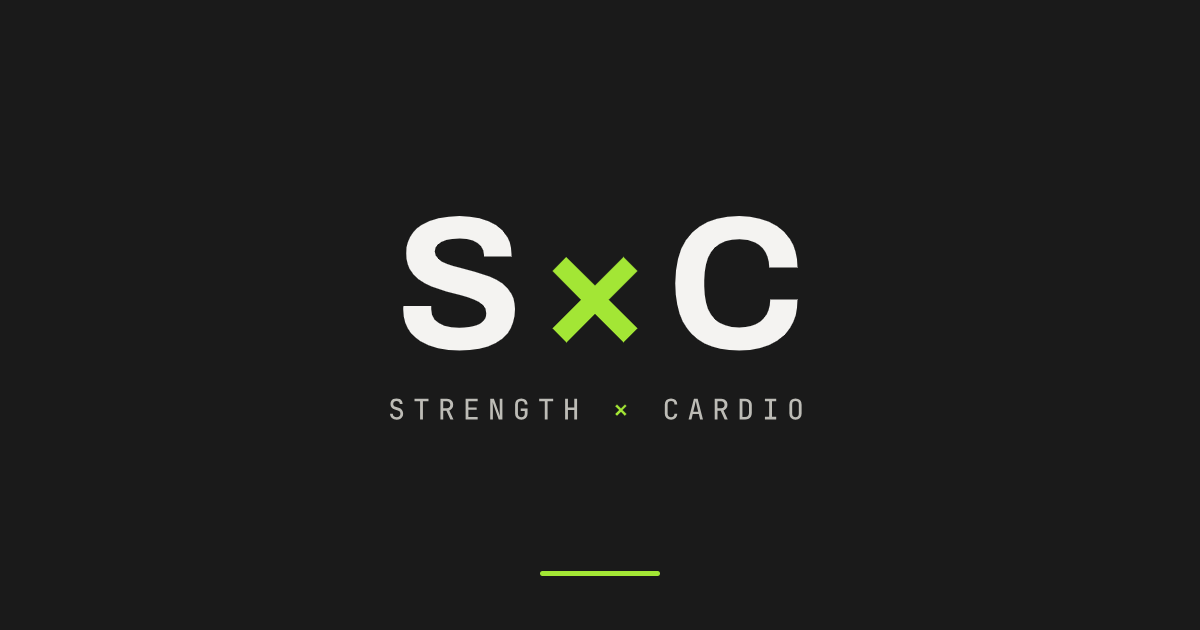
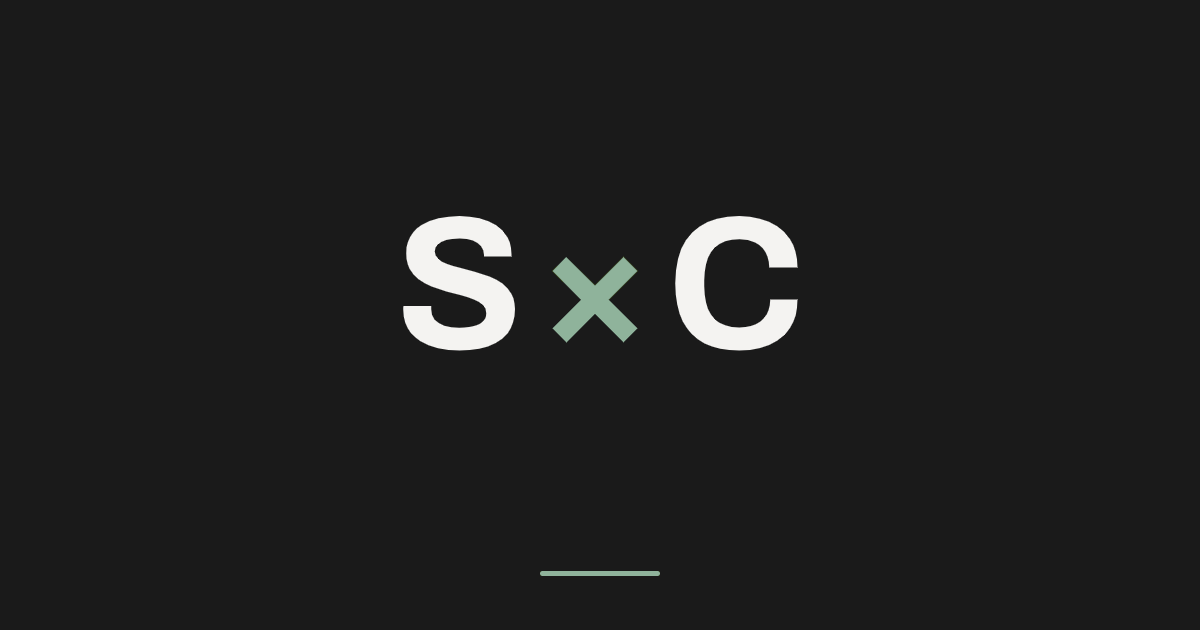
Rename app to S×C and retire lime brand for sage
Drop the "Strength × Cardio" descriptor everywhere and recolor the stale
lime (#A3E635) brand to the app's sage accent (#8FB39B) on the near-black
(#0F1310) theme background.

- layout.tsx / manifest: app name -> "S×C" (name, short_name, appleWebApp
  title, OpenGraph, Twitter); theme_color #8fb39b, background_color #0f1310.
- offline.html: "Hybrid" -> "S×C", repalette to the sage theme tokens.
- Brand SVGs: lime × -> sage; strip the "STRENGTH × CARDIO" tagline group
  from all four lockups (now wordmark-only) and crop their viewBox.
- Regenerate baked PNGs from the sage wordmark: app icons, apple-touch,
  iOS splash set, favicon (PNG-in-ICO), and recolor/erase the OG card.
- generate-icons/splash: source the wordmark, near-black #0f1310 tile.
- ProgramPicker: Hybrid tagline "strength × cardio" -> "strength + cardio".
- InstallPrompt / MCP authorize + connect copy: "SxC" -> "S×C".
- Update brand-identity.md + knowledge index to the sage, descriptor-free system.
- pwa-install-desktop e2e: expect manifest name/short_name "S×C".

diff --git a/apps/web/public/offline.html b/apps/web/public/offline.html
@@ -3,7 +3,7 @@
   <head>
     <meta charset="utf-8" />
     <meta name="viewport" content="width=device-width, initial-scale=1, viewport-fit=cover" />
-    <title>Offline · Hybrid</title>
+    <title>Offline · S×C</title>
     <style>
       :root {
         color-scheme: dark;
@@ -17,8 +17,8 @@
         height: 100%;
       }
       body {
-        background: #1a1a1a;
-        color: #f4f3f1;
+        background: #0f1310;
+        color: #e6ebe2;
         font-family: system-ui, -apple-system, "Segoe UI", sans-serif;
         display: flex;
         flex-direction: column;
@@ -36,7 +36,7 @@
         line-height: 1;
       }
       .mark .x {
-        color: #a3e635;
+        color: #8fb39b;
       }
       h1 {
         font-size: 20px;
@@ -48,14 +48,14 @@
         max-width: 32ch;
         font-size: 14px;
         line-height: 1.6;
-        color: #bdbcb6;
+        color: #afb8a8;
       }
       button {
         margin-top: 4px;
         appearance: none;
-        border: 1px solid #3a3a38;
-        background: #2b2b29;
-        color: #f4f3f1;
+        border: 1px solid #384230;
+        background: #141813;
+        color: #e6ebe2;
         font: inherit;
         font-size: 14px;
         font-weight: 600;
@@ -64,7 +64,7 @@
         cursor: pointer;
       }
       button:active {
-        background: #343431;
+        background: #1f251d;
       }
     </style>
   </head>
@@ -72,7 +72,7 @@
     <div class="mark" aria-hidden="true">S<span class="x">×</span>C</div>
     <h1>You're offline</h1>
     <p>
-      Hybrid can't reach the network right now. Logged sets are saved on this
+      S×C can't reach the network right now. Logged sets are saved on this
       device and will sync once you're back online.
     </p>
     <button type="button" onclick="location.reload()">Try again</button>

diff --git a/apps/web/src/components/shell/InstallPrompt.tsx b/apps/web/src/components/shell/InstallPrompt.tsx
@@ -138,7 +138,7 @@ export function InstallPrompt() {
   return (
     <div
       role="region"
-      aria-label="Install SxC"
+      aria-label="Install S×C"
       style={{
         position: "fixed",
         left: 12,
@@ -159,7 +159,7 @@ export function InstallPrompt() {
       <div style={{ display: "flex", alignItems: "flex-start", gap: 10 }}>
         <div style={{ fontSize: 22, lineHeight: 1 }} aria-hidden="true">⚡</div>
         <div style={{ display: "grid", gap: 4, flex: 1 }}>
-          <div style={{ fontSize: 14, fontWeight: 600 }}>Install SxC for faster gym access</div>
+          <div style={{ fontSize: 14, fontWeight: 600 }}>Install S×C for faster gym access</div>
           {iOS ? (
             <div style={{ fontSize: 12, color: "var(--cp-text-muted)", lineHeight: 1.5 }}>
               Tap the <strong>Share</strong> icon in Safari, then{" "}
@@ -167,7 +167,7 @@ export function InstallPrompt() {
             </div>
           ) : (
             <div style={{ fontSize: 12, color: "var(--cp-text-muted)", lineHeight: 1.5 }}>
-              One tap to put SxC on your home screen. Opens full-screen, no browser
+              One tap to put S×C on your home screen. Opens full-screen, no browser
               chrome.
             </div>
           )}

diff --git a/apps/web/src/app/layout.tsx b/apps/web/src/app/layout.tsx
@@ -48,12 +48,12 @@ const sairaStencil = Saira_Stencil_One({
 
 export const metadata: Metadata = {
   metadataBase: new URL("https://getsxc.app"),
-  title: "SxC — Strength × Cardio",
+  title: "S×C",
   description: "Train hybrid. One plan, two modalities, zero collisions.",
   manifest: "/manifest.webmanifest",
   appleWebApp: {
     capable: true,
-    title: "SxC",
+    title: "S×C",
     statusBarStyle: "black-translucent",
   },
   icons: {
@@ -70,8 +70,8 @@ export const metadata: Metadata = {
   },
   openGraph: {
     type: "website",
-    siteName: "SxC — Strength × Cardio",
-    title: "SxC — Strength × Cardio",
+    siteName: "S×C",
+    title: "S×C",
     description: "Train hybrid. One plan, two modalities, zero collisions.",
     url: "https://getsxc.app",
     images: [
@@ -79,13 +79,13 @@ export const metadata: Metadata = {
         url: "/og-image.png",
         width: 1200,
         height: 630,
-        alt: "SxC — Strength × Cardio",
+        alt: "S×C",
       },
     ],
   },
   twitter: {
     card: "summary_large_image",
-    title: "SxC — Strength × Cardio",
+    title: "S×C",
     description: "Train hybrid. One plan, two modalities, zero collisions.",
     images: ["/og-image.png"],
   },

diff --git a/apps/web/src/components/settings/McpConnectSection.tsx b/apps/web/src/components/settings/McpConnectSection.tsx
@@ -37,7 +37,7 @@ const CLIENT_INSTRUCTIONS: Array<{
     steps: [
       "Open Claude → Settings → Connectors.",
       "Click \"Add custom connector\" and paste the MCP server URL above.",
-      "Sign in with your SxC account when Claude redirects you.",
+      "Sign in with your S×C account when Claude redirects you.",
       "Approve the requested scope (read-only access to your training data).",
       "The 8 tools appear in Claude's tool list — start a chat and ask about your training.",
     ],
@@ -60,7 +60,7 @@ const CLIENT_INSTRUCTIONS: Array<{
     steps: [
       "Open Cursor → Settings → MCP.",
       "Add a new MCP server with the URL above (transport: streamable-http).",
-      "Authenticate with your SxC account when prompted.",
+      "Authenticate with your S×C account when prompted.",
       "The catalogue's tools appear in Cursor's tool picker — invoke them from chat.",
     ],
   },

diff --git a/apps/web/src/app/mcp/authorize/route.ts b/apps/web/src/app/mcp/authorize/route.ts
@@ -105,7 +105,7 @@ function renderConsentPage(args: {
 <meta charset="utf-8" />
 <meta name="viewport" content="width=device-width, initial-scale=1" />
 <meta name="robots" content="noindex,nofollow" />
-<title>Authorize ${displayName} — SxC</title>
+<title>Authorize ${displayName} — S×C</title>
 <style>
   :root { color-scheme: light dark; }
   html, body { margin: 0; padding: 0; background: #f4f3f1; color: #1a1a1a;
@@ -140,7 +140,7 @@ function renderConsentPage(args: {
 <main>
   <div class="card">
     <h1>Authorize ${displayName}</h1>
-    <p>${displayName} is requesting read access to your SxC data.</p>
+    <p>${displayName} is requesting read access to your S×C data.</p>
     <dl>
       <dt>Client</dt><dd><span class="mono">${clientId}</span></dd>
       <dt>Scope</dt><dd><span class="mono">${scope}</span></dd>

diff --git a/apps/web/e2e/pwa-install-desktop.spec.ts b/apps/web/e2e/pwa-install-desktop.spec.ts
@@ -67,8 +67,8 @@ test.describe("PWA install metadata", () => {
     expect(res.ok()).toBeTruthy();
     const body = await res.json();
     expect(body.display).toBe("standalone");
-    expect(body.name).toBe("SxC — Strength × Cardio");
-    expect(body.short_name).toBe("SxC");
+    expect(body.name).toBe("S×C");
+    expect(body.short_name).toBe("S×C");
     expect(Array.isArray(body.icons)).toBe(true);
     // Must include at least one maskable icon so Android adaptive icons
     // don't get cropped, plus a 192 and a 512.

diff --git a/apps/web/src/components/program/ProgramPicker.tsx b/apps/web/src/components/program/ProgramPicker.tsx
@@ -44,7 +44,7 @@ const CARD_TAGLINE: Record<string, string> = {
   "wendler-531": "Percentage strength",
   "tactical-barbell": "Operator · Fighter · Zulu",
   "green-protocol": "Strength + endurance",
-  hybrid: "Personalised strength × cardio",
+  hybrid: "Personalised strength + cardio",
   hyrox: "Run + functional stations",
 };
 

diff --git a/docs/design/brand-identity.md b/docs/design/brand-identity.md
@@ -1,14 +1,16 @@
-# Brand identity — SxC
+# Brand identity — S×C
 
-**Status:** locked (2026-06-01). Living document; update if the visual system changes.
+**Status:** updated 2026-06-16 (sage accent + descriptor dropped). Living
+document; update if the visual system changes.
 
-The app's public brand is **SxC** — short for **Strength × Cardio**. Spoken aloud as
-"S-C". The `×` is a multiplier glyph (strength *times* cardio), not the letter "x",
-and is the signature element of the mark.
+The app's public brand is **S×C**. Spoken aloud as "S-C". The `×` is a
+multiplier glyph (strength *times* cardio), not the letter "x", and is the
+signature element of the mark. The app is named **S×C** — there is no
+"Strength × Cardio" descriptor in shipped copy or assets.
 
-> The product/package name remains `Hybrid Training` internally (`@hta/web`,
-> manifest `name`). SxC is the consumer-facing brand and domain. Don't rename
-> packages or routes to match.
+> The product/package name remains `Hybrid Training` internally (`@hta/web`).
+> S×C is the consumer-facing brand and domain. Don't rename packages or routes
+> to match.
 
 ## Domain
 
@@ -17,94 +19,99 @@ WHOIS privacy). `metadataBase` in `apps/web/src/app/layout.tsx` points here.
 
 ## Wordmark
 
-`S×C` — the lockup.
+`S×C` — the full mark.
 
 | Part | Spec |
 |---|---|
 | `S` and `C` | **Archivo Bold (700)**, `letter-spacing: -0.02em` |
-| `×` | same face/weight, **accent green**, ~1px optical side margin |
+| `×` | same face/weight, **sage accent**, ~1px optical side margin |
 
 In the app header the wordmark is rendered as **live text** (not an image) so it
 adapts to the active theme: `S`/`C` use `var(--cp-text)`, `×` uses
 `var(--cp-accent)`. The Archivo face is loaded via `next/font/google` in
 `layout.tsx` and exposed as `--font-brand`.
 
-## Descriptor
-
-`STRENGTH × CARDIO` — sits centered beneath the wordmark in the full lockup.
-
-| Spec | Value |
-|---|---|
-| Face | **JetBrains Mono**, weight 500 |
-| Case | uppercase |
-| Tracking | `letter-spacing: 0.28em` (wide tracked) |
-| `×` | accent green, weight 700 |
-| Ink | `#BDBCB6` on dark · `#57564F` on light |
+The app ships a **dark-only sage theme** (`data-theme="dark"`); there is no
+shipped light mode. Light-variant brand SVGs remain in the repo as source but
+are not consumed by the app.
 
 ## Palette
 
-| Token | Light | Dark | Role |
-|---|---|---|---|
-| Iron | `#1A1A1A` | `#F4F3F1` | bg / ink (inverts by mode) |
-| Accent green | `#65A30D` | `#A3E635` | the `×` glyph + UI accent |
-| Descriptor ink | `#57564F` | `#BDBCB6` | descriptor text |
+| Token | Value | Role |
+|---|---|---|
+| Background | `#0f1310` | app background (`--cp-bg`) |
+| Ink | `#e6ebe2` | primary text (`--cp-text`) |
+| Sage accent | `#8fb39b` | the `×` glyph + UI accent (`--cp-accent`) |
 
-These map to the existing CSS variables in `globals.css`: `--cp-accent`
-(`#65a30d` light / `#a3e635` dark) and `--cp-text`. The manifest
-`theme_color` (`#a3e635`) and `background_color` (`#1a1a1a`) are already on-palette.
+These map to the CSS variables in `globals.css`: `--cp-accent` (`#8fb39b`),
+`--cp-bg` (`#0f1310`), `--cp-text`. The manifest `theme_color` (`#8fb39b`) and
+`background_color` (`#0f1310`) are on-palette.
+
+> Historical: the original brand drop used a lime accent (`#A3E635` dark /
+> `#65A30D` light) on an iron `#1A1A1A` background. The app moved to the sage
+> theme app-wide; lime is retired.
 
 ## Type system
 
 | Face | Use | Loaded as |
 |---|---|---|
 | **Archivo** (700) | wordmark only | `--font-brand` |
-| **JetBrains Mono** | descriptor + numeric / stat UI | `--font-mono` |
-| **Geist / Geist Mono** | body UI (current app default) | `--font-sans` / `--font-mono` |
-
-> Note: body UI currently uses Geist. JetBrains Mono is the brand's stat/number
-> face per the spec; adopt it for numeric UI where it improves legibility, but
-> that migration is out of scope for the brand drop.
+| **Oswald** | display headings | `--cp-font-display` |
+| **JetBrains Mono** | nav tabs + numeric / stat UI | `--cp-font-mono` |
+| **Geist / Geist Mono** | body UI (app default) | `--cp-font-sans` / `--font-mono` |
 
 ## App icon
 
-Primary master is **charcoal**: iron-dark `#1A1A1A` tile, off-white `S`/`C`, green
-`×`, full-bleed square (the OS applies its own corner mask). Wordmark content sits
-at ~58% tile width — inside the maskable safe zone.
+Master tile is **near-black** `#0F1310` (the app background), with off-white
+`S`/`C` and a sage `×`, full-bleed square (the OS applies its own corner mask).
+Wordmark content sits inside the maskable safe zone.
 
-**Do not** use a green-background tile: on green the `×` loses contrast and the
-signature green `×` disappears. Charcoal preserves it.
+**Do not** use a sage-background tile: on sage the `×` loses contrast and the
+signature glyph disappears. The near-black tile preserves it.
 
 Sizes shipped in `apps/web/public/icons/`: `icon-{192,256,384,512}.png`,
-`icon-maskable-512.png`, `apple-touch-icon.png` (180). Favicon (multi-res 16–256)
-at `apps/web/src/app/favicon.ico`. Alternate directions (green tile, outlined) exist
-as SVG source but are not the shipped default.
+`icon-maskable-512.png`, `apple-touch-icon.png` (180). Favicon (multi-res 16–48,
+PNG-in-ICO) at `apps/web/src/app/favicon.ico`. All are baked from the canonical
+`sxc-wordmark-dark.svg` by `scripts/generate-icons.mjs`.
 
 ## Assets in the repo
 
 | Path | What |
 |---|---|
-| `public/branding/sxc-lockup-{dark,light}.svg` | wordmark + descriptor, transparent |
-| `public/branding/sxc-lockup-{dark,light}-bg.svg` | same, with iron tile baked in |
-| `public/branding/sxc-wordmark-{dark,light}.svg` | `S×C` only |
+| `public/branding/sxc-wordmark-{dark,light}.svg` | `S×C` mark, transparent |
+| `public/branding/sxc-lockup-{dark,light}.svg` | `S×C` mark, transparent (descriptor removed) |
+| `public/branding/sxc-lockup-{dark,light}-bg.svg` | same, with tile baked in |
 | `public/og-image.png` | 1200×630 OpenGraph/Twitter share card |
+| `public/splash/*` | iOS PWA splash screens (baked from the wordmark) |
 | `public/icons/*`, `src/app/favicon.ico` | app icon set + favicon |
 
 All SVGs have their **text outlined to vector paths** — they render identically
-anywhere with no font loading. Choose `-dark` on dark surfaces, `-light` on light;
-use `-bg` variants only when a baked-in tile is needed (e.g. social/OG). Prefer
-`wordmark` where space is tight, `lockup` where the descriptor should read.
+anywhere with no font loading. The `-dark` variants are the shipped assets.
+
+## Regenerating baked assets
+
+The PNG icons, splash screens, OG card, and favicon are baked from the brand
+SVGs. After changing a brand SVG or palette value:
+
+- `node scripts/generate-icons.mjs` — app icons + apple-touch.
+- `node scripts/generate-splash.mjs` — iOS splash set + `splash-screens.ts`.
+- OG card + favicon are baked from `sxc-wordmark-dark.svg` on a `#0f1310` tile.
+
+Installed home-screen icons/splash only refresh on reinstall.
 
 ## OpenGraph / social
 
-`og-image.png` (1200×630): flat iron `#1A1A1A` background, centered dark lockup,
-a short green accent rule. Wired in `layout.tsx` via `metadata.openGraph` +
-`metadata.twitter` (`summary_large_image`).
+`og-image.png` (1200×630): flat `#1A1A1A` background, centered `S×C` wordmark
+(off-white `S`/`C`, sage `×`), a short sage accent rule. Wired in `layout.tsx`
+via `metadata.openGraph` + `metadata.twitter` (`summary_large_image`).
 
 ## Usage rules
 
-- The `×` is **always** the accent green and **always** a multiplier glyph — never
+- The `×` is **always** the sage accent and **always** a multiplier glyph — never
   recolor it to match S/C, never substitute a literal lowercase "x".
 - Header brand stays **live text** (theme-adaptive), not a fixed-color `<img>`.
-- App icon stays **charcoal**, never green-tile (contrast rule above).
+- App icon stays **near-black**, never sage-tile (contrast rule above).
+- No "Strength × Cardio" descriptor in shipped copy or assets — the brand is
+  **S×C** only.
 - Public artifacts (this repo, store metadata, marketing) carry **no PII** — brand
   handle only, no real name/location.

diff --git a/docs/knowledge/index.md b/docs/knowledge/index.md
@@ -73,7 +73,7 @@ Per-feature design notes that capture rationale, data model, UX, engine deltas, 
 
 | [`docs/design/prs-and-tm-progression.md`](../design/prs-and-tm-progression.md) | **PRs + auto TM progression (planned).** Three PR kinds (weight, reps-at-weight, e1RM); AMRAP-driven confidence-gate TM bump suggestion with 28-day cooldown, hard gates (cooldown, no-duplicate proposal, active limitations), and soft-signal scoring (heavy-week top-set outperformance + GRM<0.93 fatigue mask). Block-complete secondary trigger. Auto-deload after 2 GRM-real misses. New tm_history table + tm_change_reason enum. Per-lift TM trend chart. Build queued. |
 | [`docs/design/accessory-schema.md`](../design/accessory-schema.md) | **Accessory schema — research-grounded redesign (2026-05-21).** Supersedes the v1 design in `hypertrophy-accessories.md`. Accessory scheduling backed by data across all archetypes (Strength / Hypertrophy / Endurance / Concurrent-Hybrid / Maintenance / Rebuild) including two-a-day variants. |
-| [`docs/design/brand-identity.md`](../design/brand-identity.md) | **Brand identity — SxC (locked 2026-06-01).** Consumer brand `SxC` (Strength × Cardio), domain `getsxc.app`. Wordmark Archivo Bold 700 with green `×` multiplier glyph; descriptor `STRENGTH × CARDIO` in JetBrains Mono 500, wide-tracked (.28em). Iron palette (`#1A1A1A`/`#F4F3F1`) + accent green (`#65A30D` light / `#A3E635` dark) mapped to `--cp-accent`/`--cp-text`. Header renders the wordmark as theme-adaptive live text; charcoal app-icon master (never green-tile, contrast rule); outlined-path SVGs + 1200×630 OG card under `public/branding`/`public/og-image.png`. Usage rules + asset catalog inline. |
+| [`docs/design/brand-identity.md`](../design/brand-identity.md) | **Brand identity — S×C (updated 2026-06-16).** Consumer brand `S×C`, domain `getsxc.app`. Wordmark Archivo Bold 700 with sage `×` multiplier glyph; no "Strength × Cardio" descriptor (dropped). Dark-only sage theme: bg `#0f1310`, accent `#8fb39b` mapped to `--cp-bg`/`--cp-accent`. Header renders the wordmark as theme-adaptive live text; near-black app-icon master (never sage-tile, contrast rule); outlined-path SVGs + baked icons/splash/OG (regenerate via `scripts/generate-icons.mjs` + `generate-splash.mjs`). Usage rules + asset catalog inline. |
 
 ## Decisions / ADRs
 
